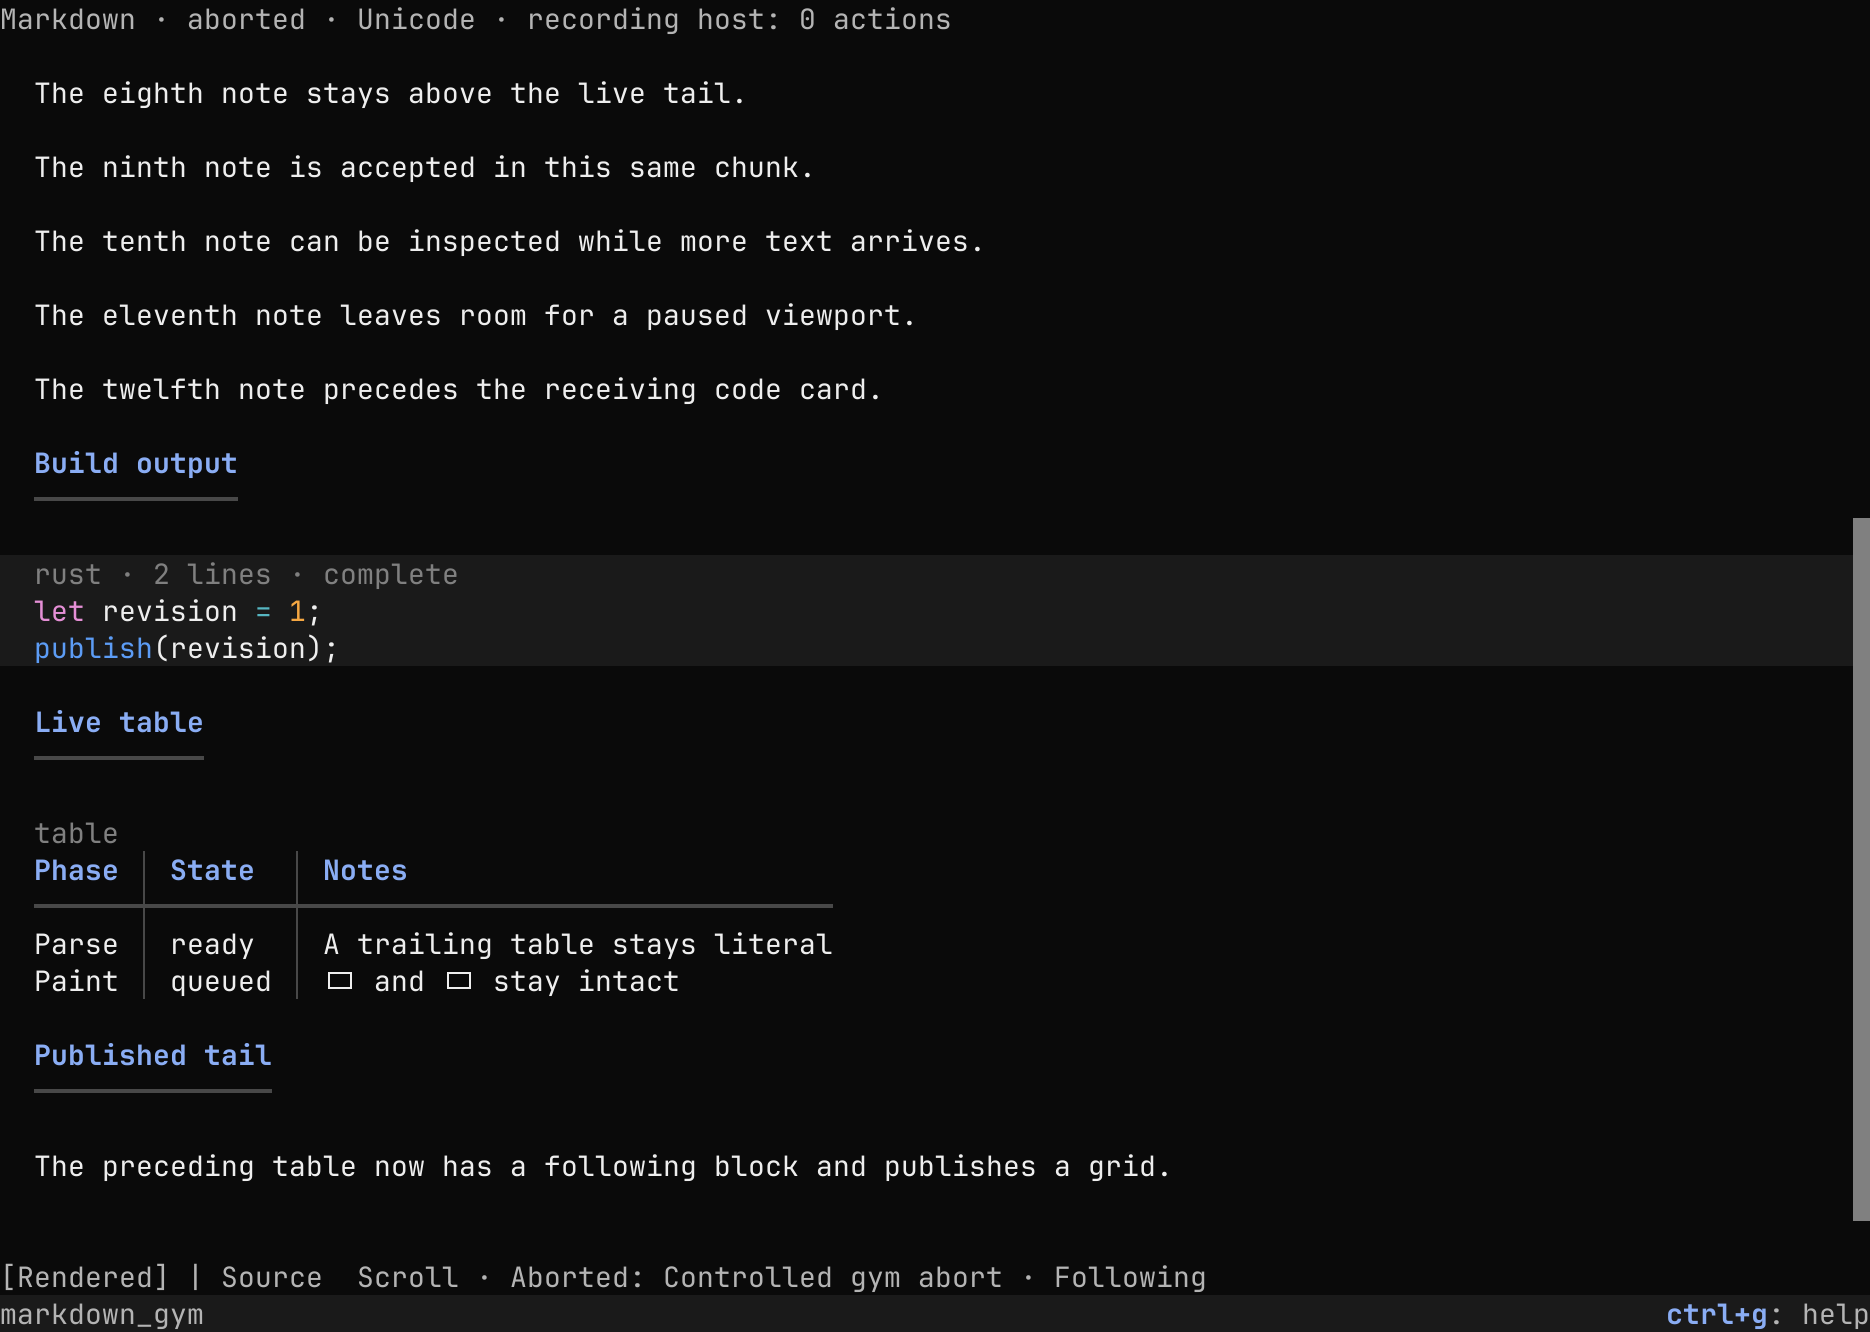
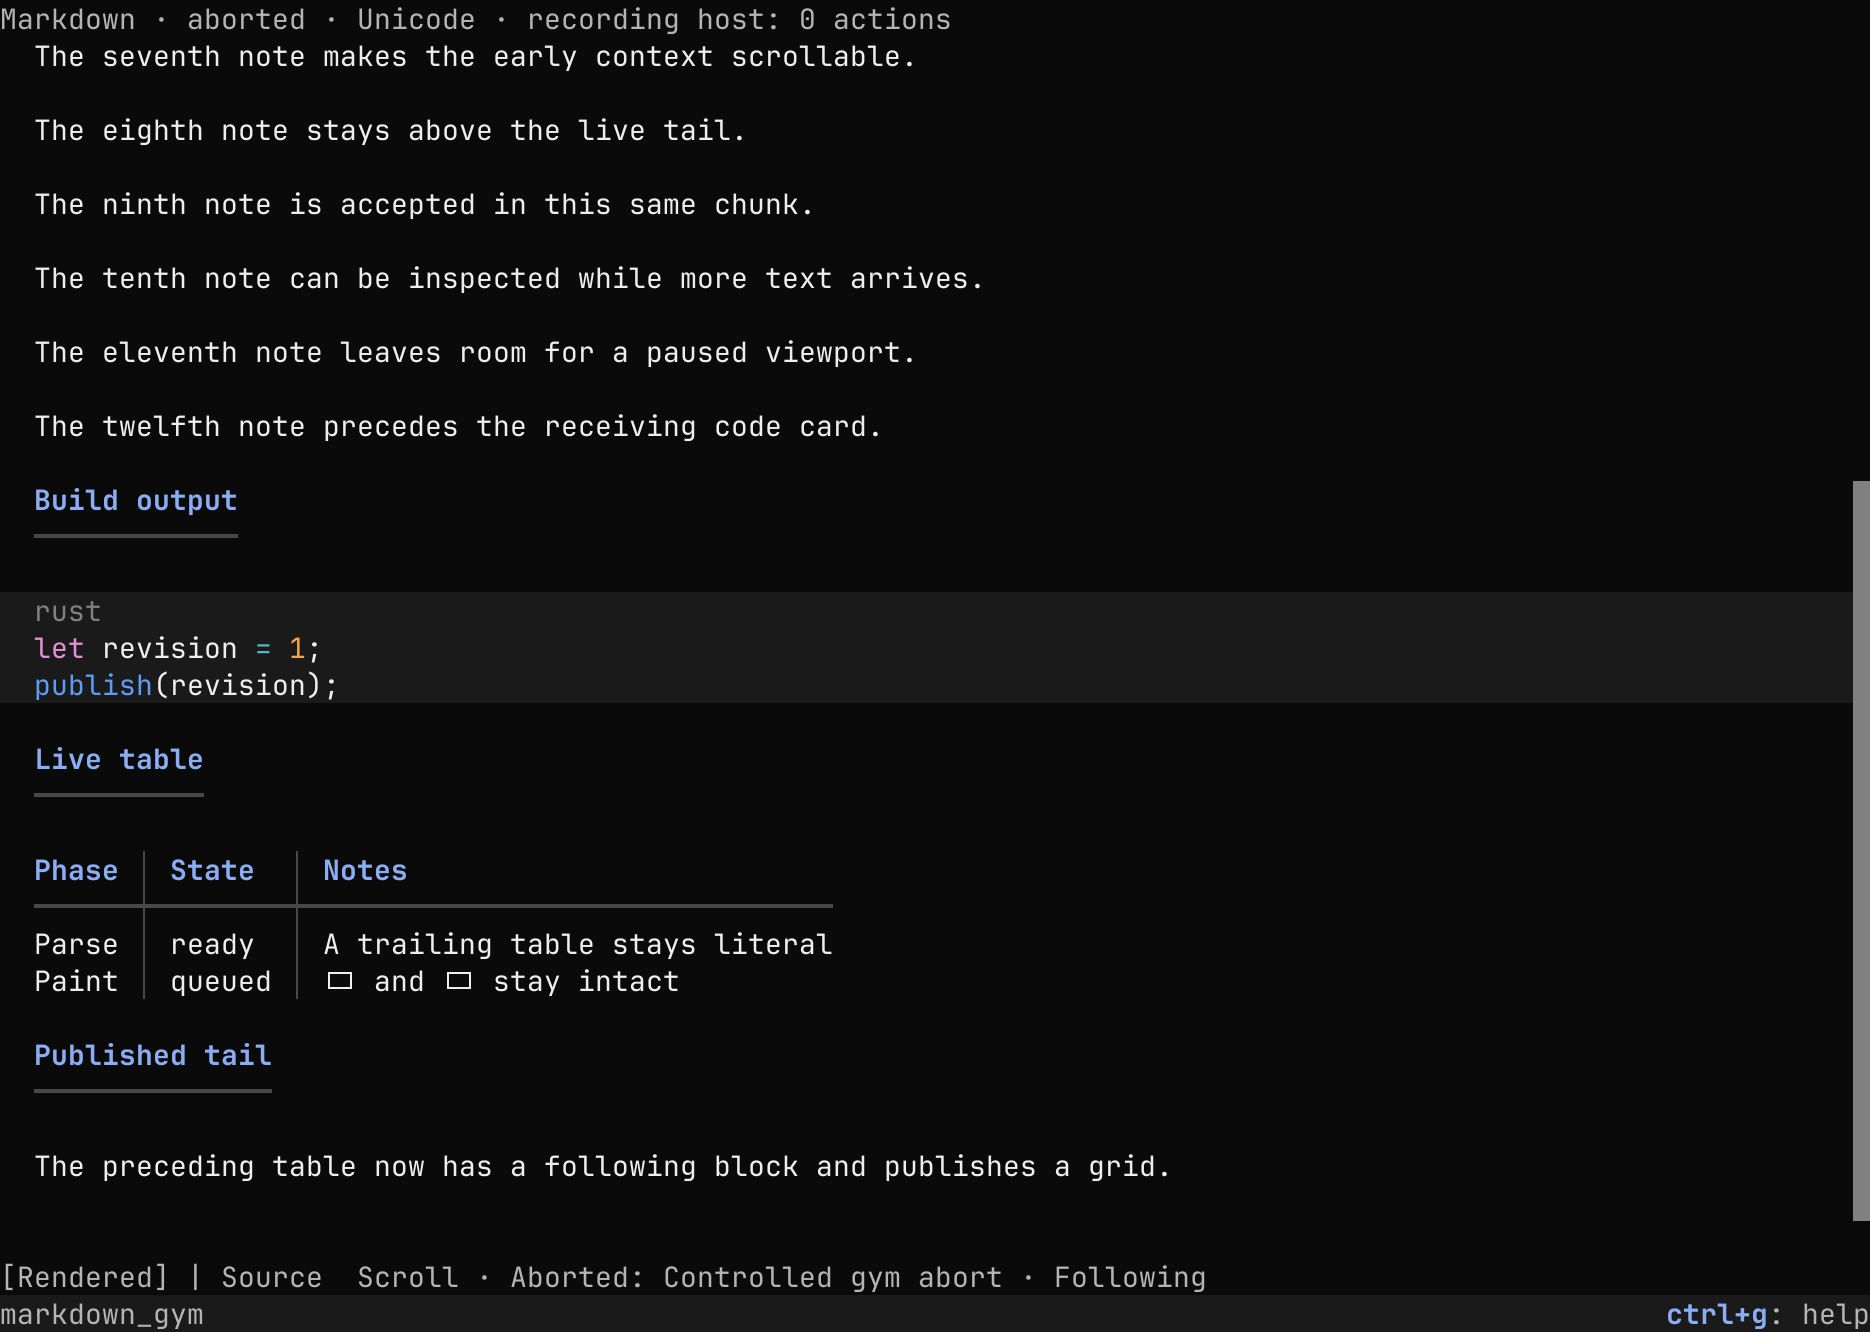
Drop Markdown card labels that restate what the formatting shows
Code cards labelled every block with its line count and a complete
state, a fence without a language as code, every table as table, and
every HTML block as unrendered source. A card now labels only what it
cannot show: the fence's language, a block still receiving lines, and a
fallback to plain text. A table preview labels only the columns it
leaves out, and an HTML or front-matter card has no label. A card or
table with nothing to say has no label row. CodeBlock loses its unused
line count.

diff --git a/docs/gallery/index.html b/docs/gallery/index.html
@@ -346,7 +346,7 @@
 <script>
 const GALLERY = {
   "title": "Canopy widgets",
-  "generated": 1792278857,
+  "generated": 1792279302,
   "font_size": 14.0,
   "scale": 2.0,
   "sizes": [

diff --git a/crates/canopy-markdown/src/presentation/mod.rs b/crates/canopy-markdown/src/presentation/mod.rs
@@ -920,25 +920,23 @@ fn prepare_block(
                 .ok()
                 .map(Arc::new);
                 if let Ok(prepared) = table::prepare(data, options) {
+                    // The grid shows that it is a table; a label says only
+                    // which columns the preview leaves out.
                     let columns = prepared.data().columns().len();
-                    let label = match &flow {
-                        Some(flow) if flow.cut() => {
-                            format!("table · {} of {columns} columns", flow.widths().len())
-                        }
-                        _ => "table".to_owned(),
-                    };
-                    let mut row = make_row();
-                    decoration(
-                        &mut row,
-                        inset,
-                        &label,
-                        body,
-                        "markdown/card/label",
-                        object,
-                        geometry.glyphs,
-                    );
-                    rows.push(row);
-                    table_start = 1;
+                    if let Some(flow) = flow.as_ref().filter(|flow| flow.cut()) {
+                        let mut row = make_row();
+                        decoration(
+                            &mut row,
+                            inset,
+                            &format!("{} of {columns} columns", flow.widths().len()),
+                            body,
+                            "markdown/card/label",
+                            object,
+                            geometry.glyphs,
+                        );
+                        rows.push(row);
+                        table_start = 1;
+                    }
                     let body_rows = prepared.data().rows().len();
                     table_height = flow
                         .as_ref()
@@ -979,18 +977,20 @@ fn prepare_block(
             );
         }
         BlockKind::Source { reason } => {
-            let mut row = make_row();
-            row.ground = "markdown/card";
-            decoration(
-                &mut row,
-                inset,
-                reason,
-                body,
-                "markdown/card/label",
-                object,
-                geometry.glyphs,
-            );
-            rows.push(row);
+            if !reason.is_empty() {
+                let mut row = make_row();
+                row.ground = "markdown/card";
+                decoration(
+                    &mut row,
+                    inset,
+                    reason,
+                    body,
+                    "markdown/card/label",
+                    object,
+                    geometry.glyphs,
+                );
+                rows.push(row);
+            }
             for (offset, line) in card_lines(&unit.text) {
                 let mut row = make_row();
                 row.ground = "markdown/card";
@@ -1090,8 +1090,12 @@ fn prepare_block(
     }
 }
 
-/// Prepare a code card: its label, then every line of the payload. Long
-/// lines are clipped at the card's edge, but no line is left out.
+/// Prepare a code card: a label, then every line of the payload. Long lines
+/// are clipped at the card's edge, but no line is left out.
+///
+/// The label names the fence's language, a block still receiving lines, and
+/// a fallback to plain text; the card shows the rest. A card with none of
+/// these has no label row.
 fn prepare_code(
     rows: &mut Vec<PreparedRow>,
     make_row: impl Fn() -> PreparedRow,
@@ -1106,41 +1110,33 @@ fn prepare_code(
         glyphs,
         ..
     } = layout;
-    let state = if code.receiving {
-        "receiving"
-    } else {
-        "complete"
-    };
-    let label = if code.info.is_empty() {
-        "code"
-    } else {
-        &code.info
-    };
-    let mut row = make_row();
-    row.ground = "markdown/card";
     let separator = if glyphs == GlyphPreset::Ascii {
         " | "
     } else {
         " · "
     };
-    let fallback = if !syntax_allowed && syntax_known(&code.info) {
-        format!("{separator}plain: syntax limit")
-    } else {
-        String::new()
-    };
-    decoration(
-        &mut row,
-        inset,
-        &format!(
-            "{label}{separator}{} lines{separator}{state}{fallback}",
-            code.line_count
-        ),
-        budget,
-        "markdown/card/label",
-        object,
-        glyphs,
-    );
-    rows.push(row);
+    let parts: Vec<&str> = [
+        (!code.info.is_empty()).then_some(code.info.as_str()),
+        code.receiving.then_some("receiving"),
+        (!syntax_allowed && syntax_known(&code.info)).then_some("plain: syntax limit"),
+    ]
+    .into_iter()
+    .flatten()
+    .collect();
+    if !parts.is_empty() {
+        let mut row = make_row();
+        row.ground = "markdown/card";
+        decoration(
+            &mut row,
+            inset,
+            &parts.join(separator),
+            budget,
+            "markdown/card/label",
+            object,
+            glyphs,
+        );
+        rows.push(row);
+    }
     let syntax = if syntax_allowed {
         code_syntax(&code.info, &code.payload)
     } else {

diff --git a/crates/canopy-markdown/src/document.rs b/crates/canopy-markdown/src/document.rs
@@ -110,8 +110,6 @@ pub struct CodeBlock {
     pub info: String,
     /// Normalized code bytes, preserving content whitespace and final LF.
     pub payload: Arc<str>,
-    /// Content line count without a synthetic final caret row.
-    pub line_count: usize,
     /// Whether the trailing code block is still receiving content.
     pub receiving: bool,
 }
@@ -161,7 +159,8 @@ pub enum BlockKind {
     Table(MarkdownTable),
     /// Exact source retained for inspection or literal presentation.
     Source {
-        /// The visible explanation for source-card degradation.
+        /// Why the block shows as source rather than rendered, or empty for
+        /// source that always shows as itself, such as HTML.
         reason: String,
     },
     /// A thematic rule without readable decoration.
@@ -922,12 +921,10 @@ impl Builder<'_> {
                         CodeBlockKind::Fenced(info) => info.to_string(),
                         CodeBlockKind::Indented => String::new(),
                     };
-                    let line_count = payload.lines().count();
                     (
                         BlockKind::Code(CodeBlock {
                             info,
                             payload: Arc::from(payload.as_str()),
-                            line_count,
                             receiving: provisional,
                         }),
                         UnitKind::Code,
@@ -952,9 +949,11 @@ impl Builder<'_> {
                         (BlockKind::Table(table), UnitKind::Table, payload, true)
                     }
                 }
+                // The terminal shows HTML and front matter as source, so
+                // their cards need no explanation.
                 Some(Tag::HtmlBlock | Tag::MetadataBlock(_)) => (
                     BlockKind::Source {
-                        reason: "Unrendered source".into(),
+                        reason: String::new(),
                     },
                     UnitKind::Source,
                     raw.to_owned(),
@@ -1725,7 +1724,6 @@ mod tests {
             panic!("code");
         };
         assert_eq!(&*code.payload, "x\n");
-        assert_eq!(code.line_count, 1);
         assert!(!code.receiving);
         let unit = &doc.units[0];
         let range = ReadingRange {
@@ -1745,7 +1743,7 @@ mod tests {
         assert!(matches!(&doc.blocks[0].kind,BlockKind::Code(code) if code.receiving));
         assert!(doc.objects.is_empty());
         assert!(
-            matches!(&complete("```\n").blocks[0].kind,BlockKind::Code(code) if code.line_count==0)
+            matches!(&complete("```\n").blocks[0].kind,BlockKind::Code(code) if code.payload.is_empty())
         );
     }
     #[test]

diff --git a/crates/canopy-markdown/src/presentation/tests.rs b/crates/canopy-markdown/src/presentation/tests.rs
@@ -429,7 +429,8 @@ fn object_cursor_shares_one_ground_and_marks_its_rows_in_the_margin() {
     assert!(h.tbuf().contains_text_style("let a", &ground));
     assert!(!h.tbuf().contains_text_style("the guide", &ground));
     assert_eq!(margin(&h, 0).ch, ' ');
-    for y in card_start..card_start + 4 {
+    // An unlabelled card is its three code lines.
+    for y in card_start..card_start + 3 {
         let cell = margin(&h, y);
         assert_eq!((cell.ch, cell.style.bg), ('▌', object.bg), "row {y}");
     }
@@ -619,5 +620,45 @@ fn source_cards_and_table_previews_show_every_line() {
         flow.height() > 12,
         "the value wraps in full: {}",
         flow.height()
+    );
+}
+
+#[test]
+fn cards_and_tables_label_only_what_their_formatting_cannot_show() {
+    let rows = |p: &PresentationSnapshot| -> Vec<String> {
+        (0..p.height()).map(|row| row_text(p, row)).collect()
+    };
+    let p = prepared("```\nplain\n```\n", 40);
+    assert_eq!(
+        p.height(),
+        1,
+        "a plain block is its line alone: {:?}",
+        rows(&p)
+    );
+    let p = prepared("```rust\nfn main() {}\n```\n", 40);
+    let shown = rows(&p);
+    assert_eq!(shown[0].trim_end(), "rust", "the label names the language");
+    assert!(
+        !shown
+            .iter()
+            .any(|row| row.contains("lines") || row.contains("complete"))
+    );
+
+    let p = prepared("| a | b |\n| --- | --- |\n| 1 | 2 |\n", 40);
+    assert!(
+        !rows(&p).iter().any(|row| row.contains("table")),
+        "{:?}",
+        rows(&p)
+    );
+    assert_eq!(
+        p.blocks[0].table_start, 0,
+        "the grid starts at the block's top"
+    );
+
+    let p = prepared("<div>\nraw\n</div>\n", 40);
+    assert!(
+        !rows(&p).iter().any(|row| row.contains("Unrendered")),
+        "{:?}",
+        rows(&p)
     );
 }

diff --git a/api/canopy-markdown.rs b/api/canopy-markdown.rs
@@ -809,7 +809,8 @@ pub mod document {
         Table(MarkdownTable),
         /// Exact source retained for inspection or literal presentation.
         Source {
-            /// The visible explanation for source-card degradation.
+            /// Why the block shows as source rather than rendered, or empty for
+            /// source that always shows as itself, such as HTML.
             reason: String,
         },
         /// A thematic rule without readable decoration.
@@ -828,8 +829,6 @@ pub mod document {
         pub info: String,
         /// Normalized code bytes, preserving content whitespace and final LF.
         pub payload: Arc<str>,
-        /// Content line count without a synthetic final caret row.
-        pub line_count: usize,
         /// Whether the trailing code block is still receiving content.
         pub receiving: bool,
     }
